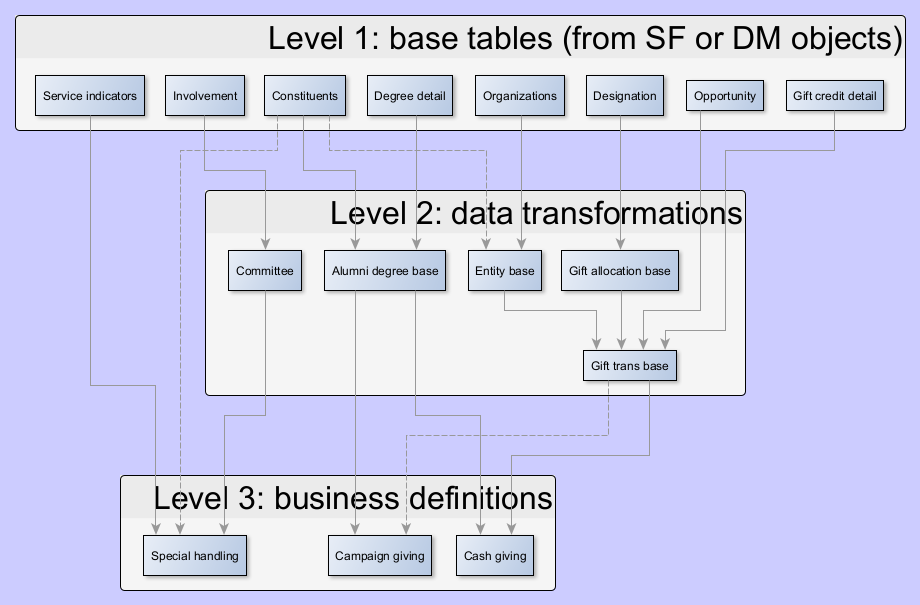
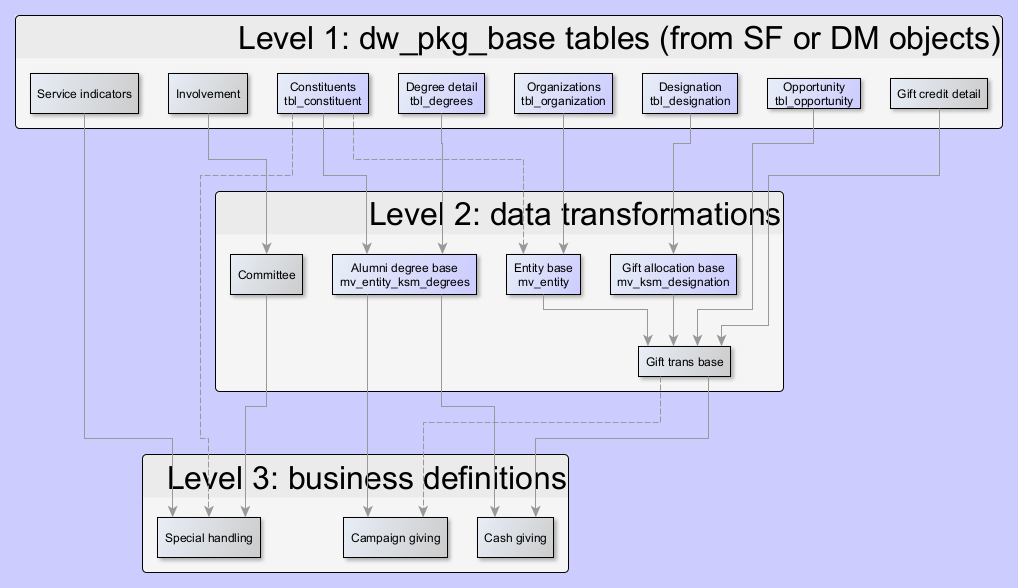
Readme updates

Changed region(s): [[0.0, 0.0306, 0.9739, 0.7347], [0.1217, 0.7041, 0.7, 0.9796], [0.0304, 0.0, 1.0, 0.0918]]

diff --git a/README.md b/README.md
@@ -4,9 +4,9 @@ Contains SQL and PL/SQL code for various Kellogg data definitions and best pract
 
 # Data hierarchy
 
-WIP as of Apr 2025.
-
 Concept: lower level tables should be defined based on SF objects, then joined/transformed into higher level definitions. Data packages should have clear hierarchical dependencies, and a single responsibility.
+
+WIP as of Apr 2025. Blue are available for testing in dev.
 
 ![data_hierarchy.png](images/data_hierarchy.png "Proposed data hierarchy")
 
@@ -16,6 +16,7 @@ Concept: lower level tables should be defined based on SF objects, then joined/t
 
  * `dw_pkg_`: package/view accessing SF objects or DW tables; should be very fast
  * `ksm_pkg_`: KSM specific package/view dependent on other packages/views
+ * `mv_`: materialized views, fast indexed versions of ksm_pkg definitions
  * `v_`: general views
  * `tableau_v_`: Tableau views
 
